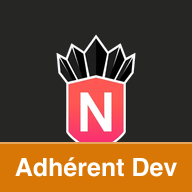
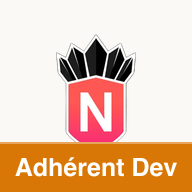
feat(storefront): écran de démarrage PWA et icônes distinctes
- PwaSplash reprend le traitement de l'admin (logo, version, bouton Continuer)
  et ne s'affiche qu'au démarrage à froid de la PWA ;
- le pied de page est masqué en mode standalone, où il fait doublon avec le
  chrome de l'application ;
- un onglet « Plus » regroupe confidentialité et mentions légales, qui doivent
  rester atteignables sans mériter un onglet chacun. En <details> natif : la
  barre de navigation est rendue côté serveur, sans hydratation.

Les icônes PWA des deux apps étaient rigoureusement identiques en production
(le bandeau ne concerne que dev/test), donc indistinguables sur un téléphone où
les deux sont installées. Le fond diffère maintenant par app : anthracite pour
l'admin, crème pour l'adhérent — le terracotta primaire se confondait avec le
blason du logo.

diff --git a/apps/storefront/src/components/MobileNav.svelte b/apps/storefront/src/components/MobileNav.svelte
@@ -1,5 +1,5 @@
 <script lang="ts">
-  import { Receipt, ShoppingCart, FileText, Wallet } from '@lucide/svelte';
+  import { Receipt, ShoppingCart, FileText, Wallet, MoreHorizontal } from '@lucide/svelte';
 
   let { currentPath = '', canExpense = true }: { currentPath?: string; canExpense?: boolean } = $props();
 
@@ -9,6 +9,15 @@
     { href: '/boutique', label: 'Commande', icon: ShoppingCart },
     { href: '/attestation', label: 'Attestation', icon: FileText }
   ]);
+
+  // Écrans rarement consultés : ils n'ont pas leur propre onglet, mais restent
+  // accessibles à tout moment — y compris en PWA, où le pied de page est masqué.
+  const secondaryLinks = [
+    { href: '/confidentialite', label: 'Politique de confidentialité' },
+    { href: '/mentions-legales', label: 'Mentions légales' }
+  ];
+
+  const isSecondaryActive = $derived(secondaryLinks.some((l) => l.href === currentPath));
 </script>
 
 <nav
@@ -28,11 +37,48 @@
       <span class="text-[11px] font-medium">{item.label}</span>
     </a>
   {/each}
+
+  <!-- <details> plutôt qu'un panneau piloté en JS : cette barre est rendue côté
+       serveur sans hydratation, le repli natif fonctionne donc partout. -->
+  <details class="relative w-full" open={isSecondaryActive}>
+    <summary
+      class={`flex flex-col items-center justify-center w-full py-2.5 gap-1 min-h-[56px] cursor-pointer transition-colors ${
+        isSecondaryActive ? 'text-primary' : 'text-muted-foreground hover:text-foreground hover:bg-accent'
+      }`}
+    >
+      <MoreHorizontal class="w-6 h-6" />
+      <span class="text-[11px] font-medium">Plus</span>
+    </summary>
+
+    <div
+      class="absolute bottom-full right-1 mb-2 w-60 rounded-xl border border-border bg-popover text-popover-foreground shadow-lg p-1.5"
+    >
+      {#each secondaryLinks as link (link.href)}
+        <a
+          href={link.href}
+          aria-current={currentPath === link.href ? 'page' : undefined}
+          class={`block rounded-lg px-3 py-2.5 text-sm decoration-transparent ${
+            currentPath === link.href ? 'text-primary font-medium' : 'text-foreground hover:bg-accent'
+          }`}
+        >
+          {link.label}
+        </a>
+      {/each}
+    </div>
+  </details>
 </nav>
 
 <style>
   /* env(safe-area-inset-bottom) : encoche/indicateur home iOS */
   .pb-safe {
     padding-bottom: env(safe-area-inset-bottom, 0px);
+  }
+
+  /* Le chevron natif du <summary> casserait l'alignement des onglets. */
+  summary {
+    list-style: none;
+  }
+  summary::-webkit-details-marker {
+    display: none;
   }
 </style>

diff --git a/apps/storefront/src/styles/global.css b/apps/storefront/src/styles/global.css
@@ -115,4 +115,13 @@
   body {
     @apply bg-background text-foreground font-sans;
   }
+
+  /* En PWA installée, le pied de page (copyright + liens légaux) fait doublon avec
+     le chrome de l'application. Les liens légaux restent atteignables à tout moment
+     via l'onglet « Plus » de la navigation mobile. */
+  @media (display-mode: standalone) {
+    footer {
+      display: none;
+    }
+  }
 }
